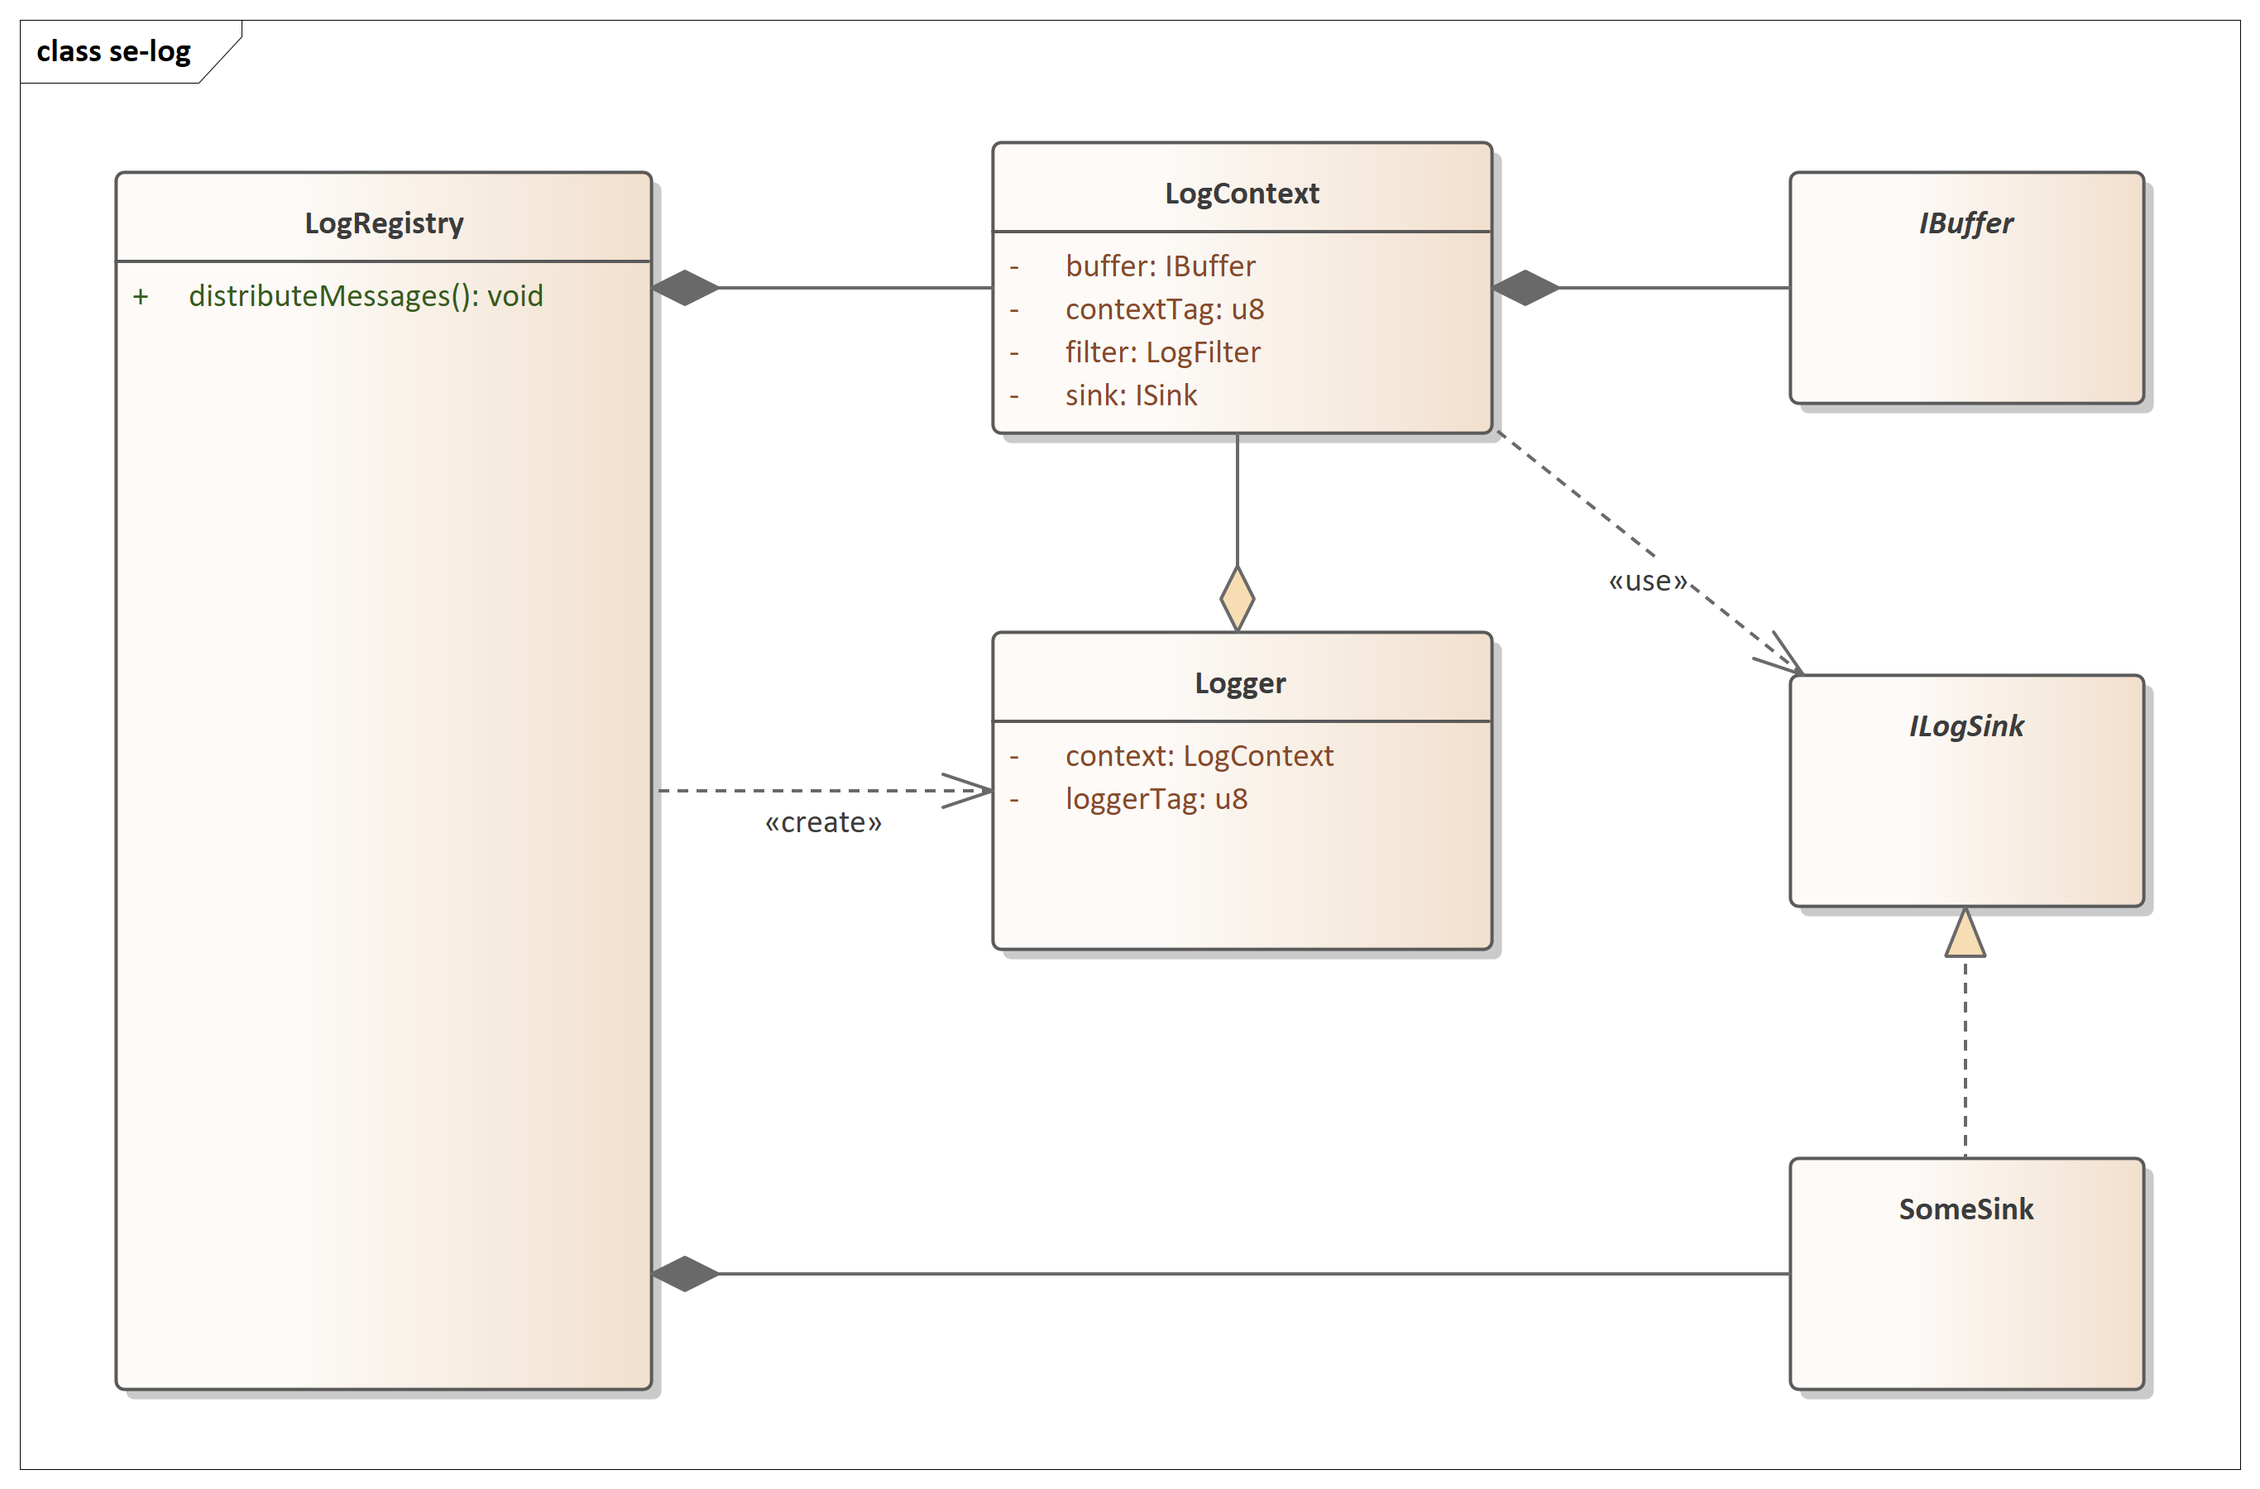
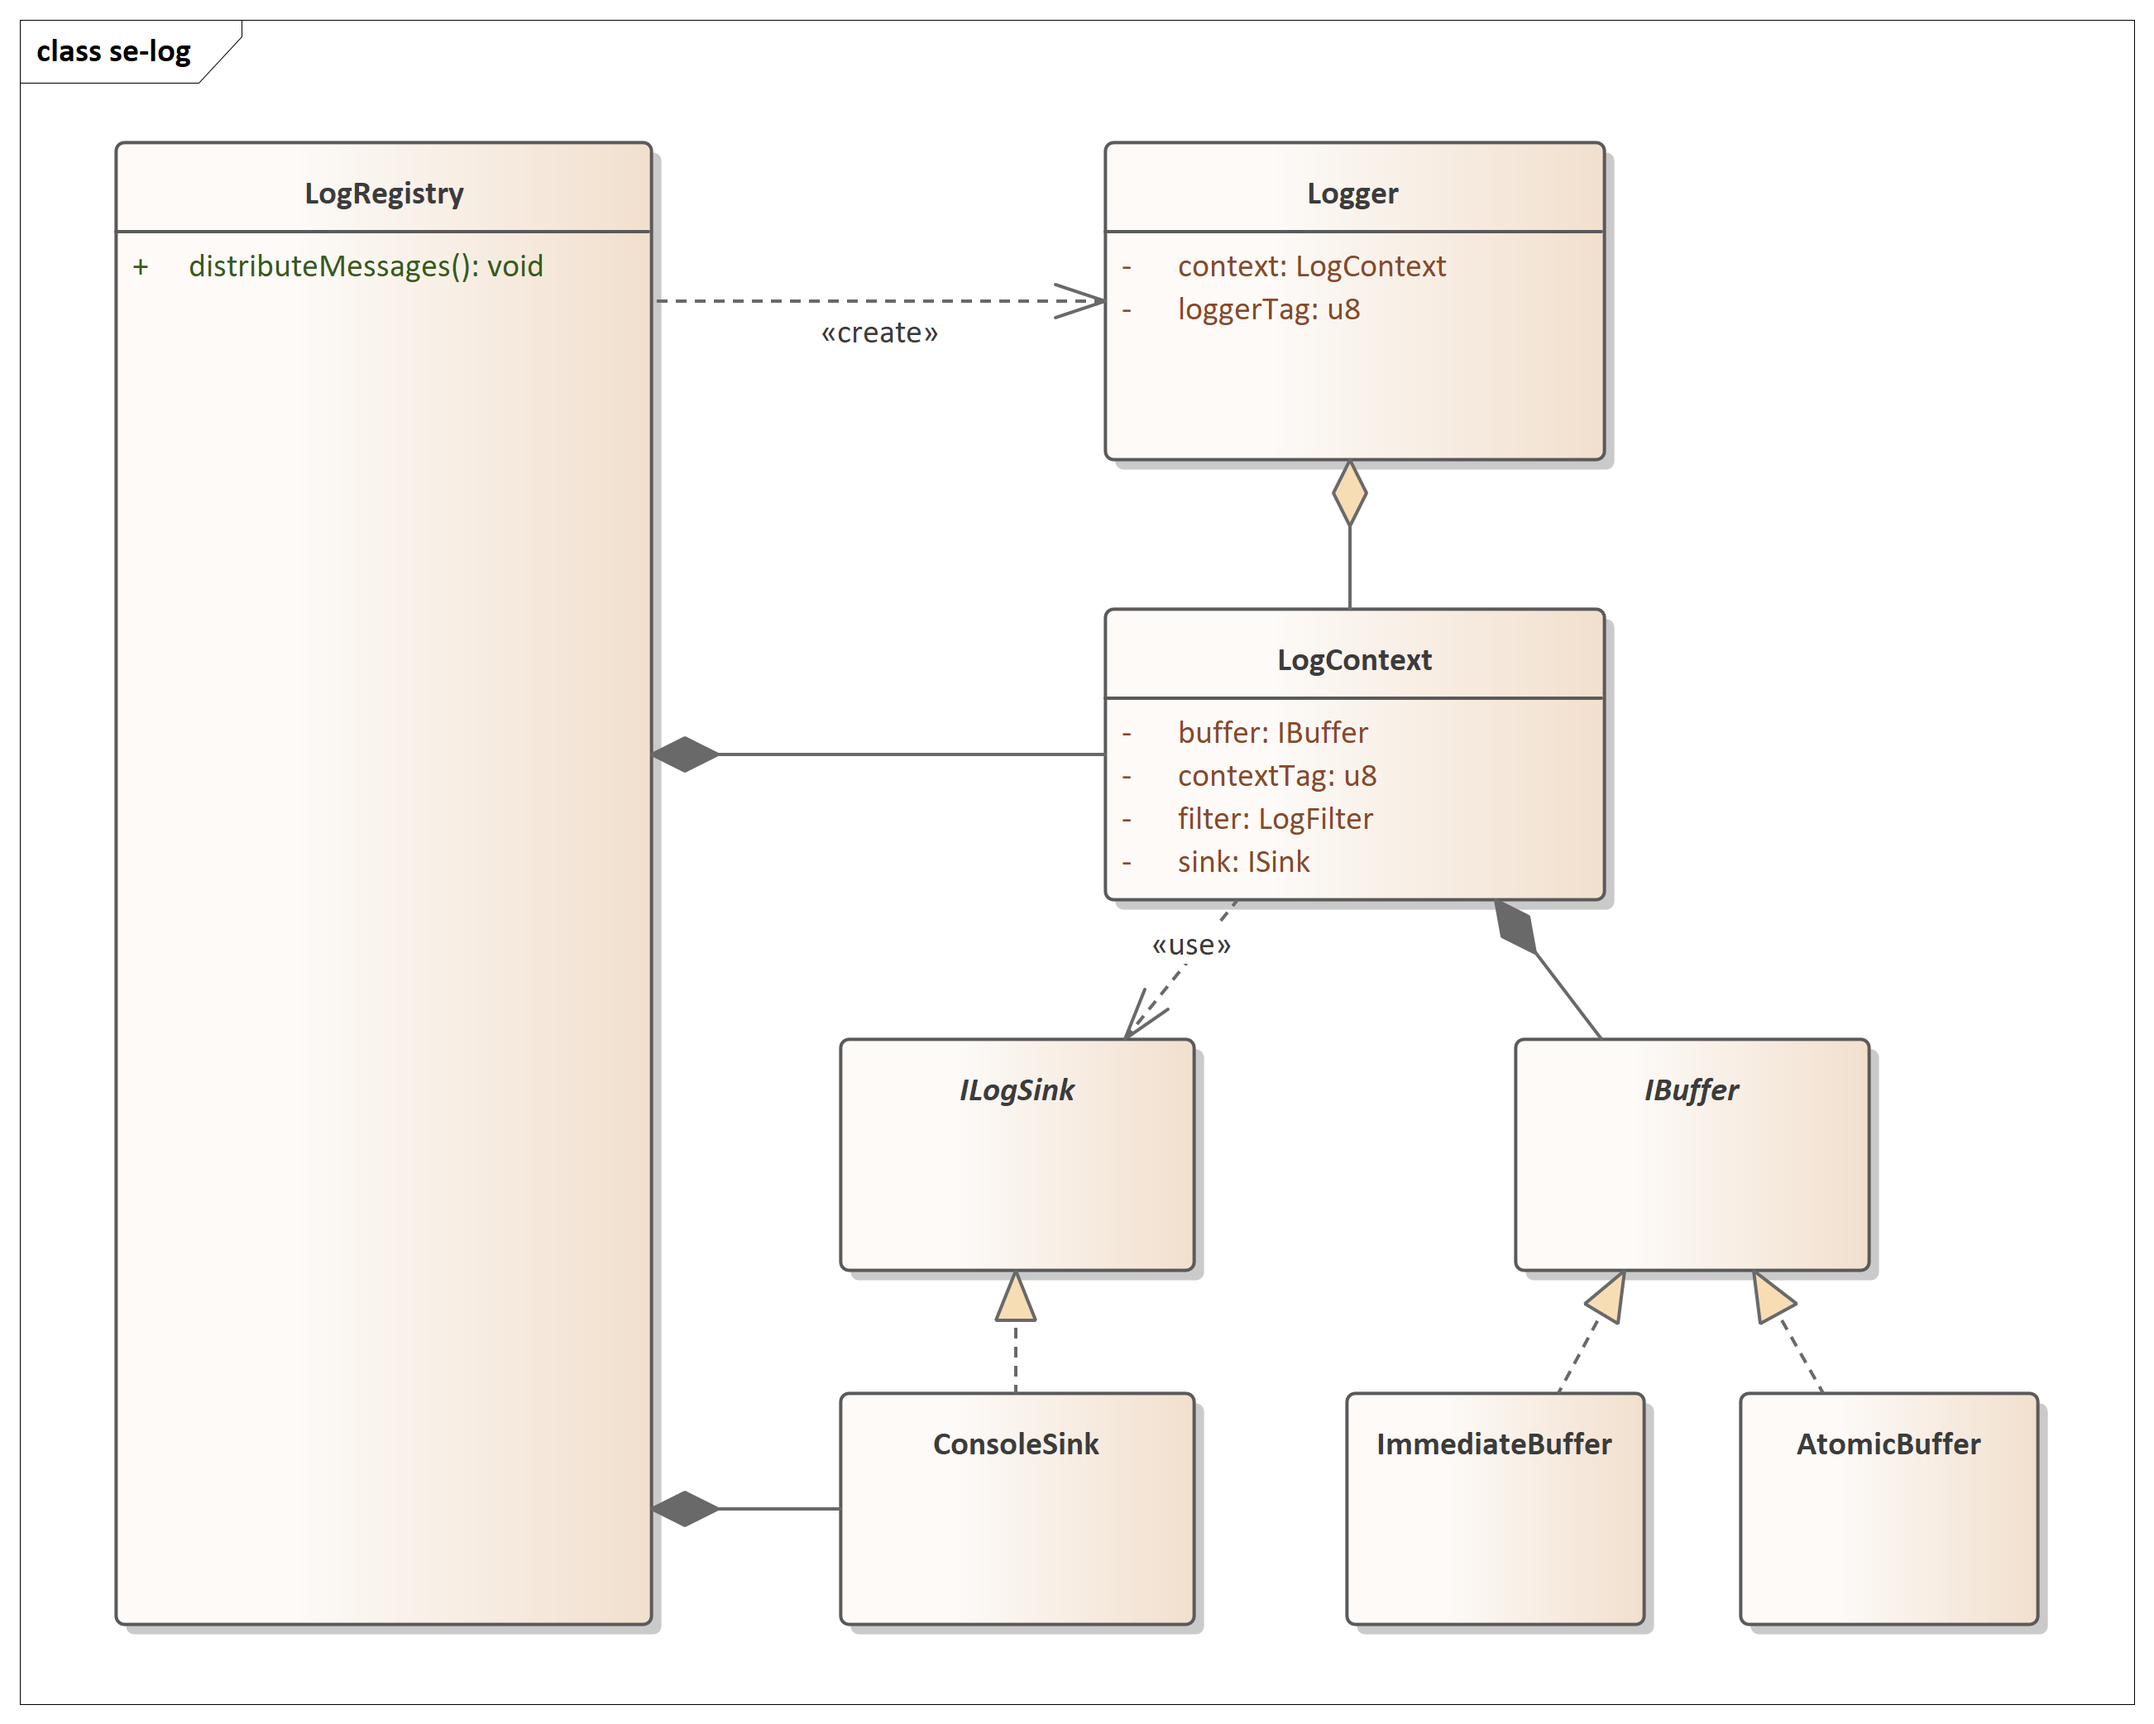
docs(log): document log filtering

diff --git a/doc/log/filtering.rst b/doc/log/filtering.rst
@@ -1,7 +1,74 @@
 Advanced Filtering
 ==================
 
+There are 3 settings in the log library where filtering applies:
+
+.. list-table::
+   :header-rows: 1
+   :widths: 15 15 40
+
+   * - Setting
+     - Filtering
+     - Reason
+   * - ``log_conf::MAX_LOG_LEVEL`` (Global)
+     - ``LogLevel``
+     - Limit overhead from logging on binary (performance and binary size).
+   * - ``LogContext``
+     - ``LogLevel``, ``LogMetadata``
+     - Limit amount of logs produced into a buffer (buffer overflow and size).
+   * - ``LogSink``
+     - ``LogLevel``, ``LogMetadata``
+     - Limit amount of logs sent into a sink (data size and throughput).
+
+As shown in the figure below every ``Logger`` instance uses its context to send log messages.
+Note that there can be multiple ``Logger`` instances attached to one context.
+
+Every ``LogSink`` can then again filter the messages from the buffers.
+Let us consider a device which logs to serial port and and SDcard.
+The serial port is used for development purposes and pass all messages.
+While we can only store the most important messages on the SDcard due to space limitations.
+
 ..  figure:: res/filter.drawio.svg
     :alt: Log Filter Points
+    :scale: 120%
+    :align: center
+
+    Filtering overview
 
 
+Level-based Filtering
+---------------------
+
+The context and sink filters can be accesses through the ``LogRegistry``.
+The filter can be set to a ``LogLevel``:
+
+.. code-block:: cpp
+    :caption: main.cpp
+
+    logRegistry->getContext(MyLogContext::THREAD_A).setLogLevel(se_oss::LogLevel::INFO);
+    logRegistry->getSink(MyLogSink::FILE).setLogLevel(se_oss::LogLevel::ERROR)
+
+Function-based Filtering
+------------------------
+
+Alternatively, a filter function that receives the ``LogMetadata`` can be registered:
+
+.. code-block:: cpp
+    :caption: main.cpp
+
+    logRegistry->getContext(MyLogContext::CELLULAR).setFilter([](auto& metadata) -> bool {
+        return metadata.level >= se_oss::LogLevel::INFO && metadata.loggerTag == 42U;
+    });
+
+In addition to ``LogLevel`` the metadata contains the logger and context tags for finer logging.
+
+Tagged Logging
+--------------
+
+Every logger instance and every context can be assigned a tag.
+The tags are part of the ``LogMetadata`` with intention of fine tuned filtering.
+
+For example in complex application the trace level is rarely usable as log messages easily flood the buffers and communication interface.
+When each log message is traceable to its producer the user can enable trace level only the software components their interested in.
+
+Or if a bug is reported you can selectively collect more information about the suspected software components even with limited communication/storage throughput.

diff --git a/doc/log/getting-started.rst b/doc/log/getting-started.rst
@@ -217,8 +217,6 @@ The expected output on ``stdout`` is:
 Software Design
 ---------------
 
-
-
 ..  figure:: res/se-log.png
     :alt: se-log design
     :width: 100%
@@ -226,3 +224,10 @@ Software Design
 
     Software design overview for se-log.
 
+The figure above shows the simplified design of the classes implemented in the log library.
+The ``LogRegistry`` serves a helper class declaring clear ownership of the objects created for logging.
+
+The log front-end requires ``Logger`` instance.
+Multiple of those instances can reference a shared ``LogContext``.
+The context is owner of the buffer used for logging. For multi-threaded applications there should be one context per thread.
+The context knows a sink so that messages can be distributed.

diff --git a/doc/log/index.rst b/doc/log/index.rst
@@ -9,10 +9,8 @@ Features:
     * simple printf-style
     * compact binary format
 
- todo: ...
-
-
-
+* Supports log tags for fine tuned filtering
+* Highly configurable so it can grow with your product
 
 
 
